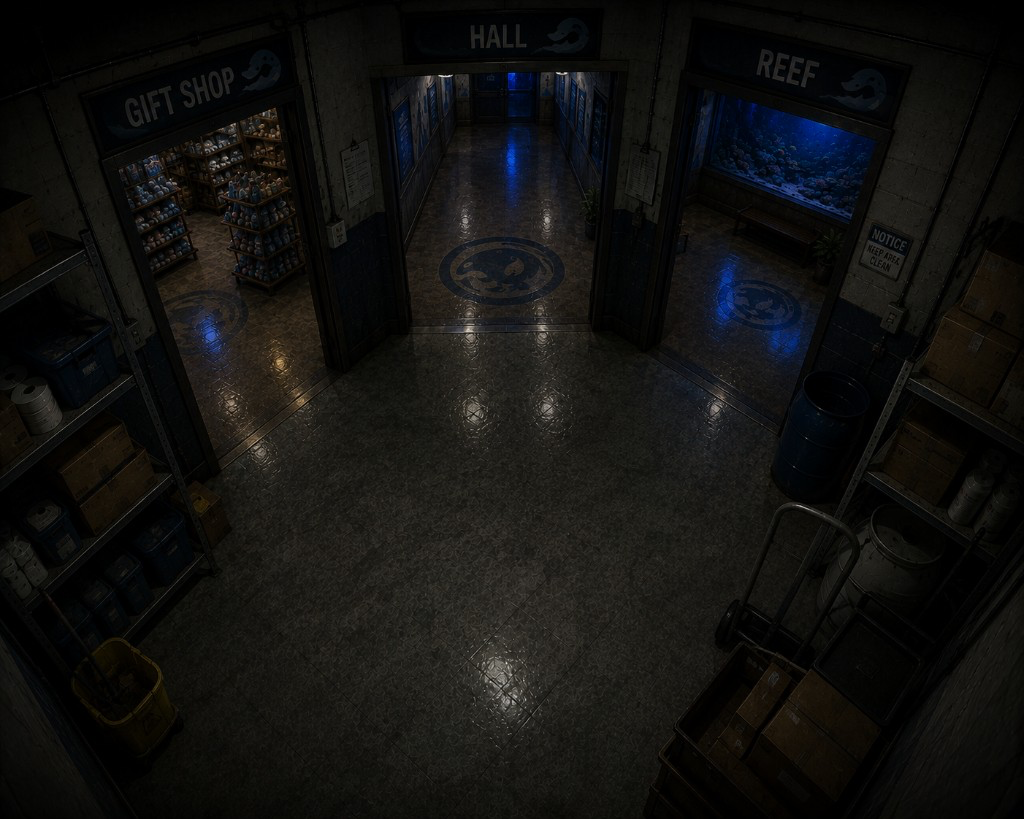
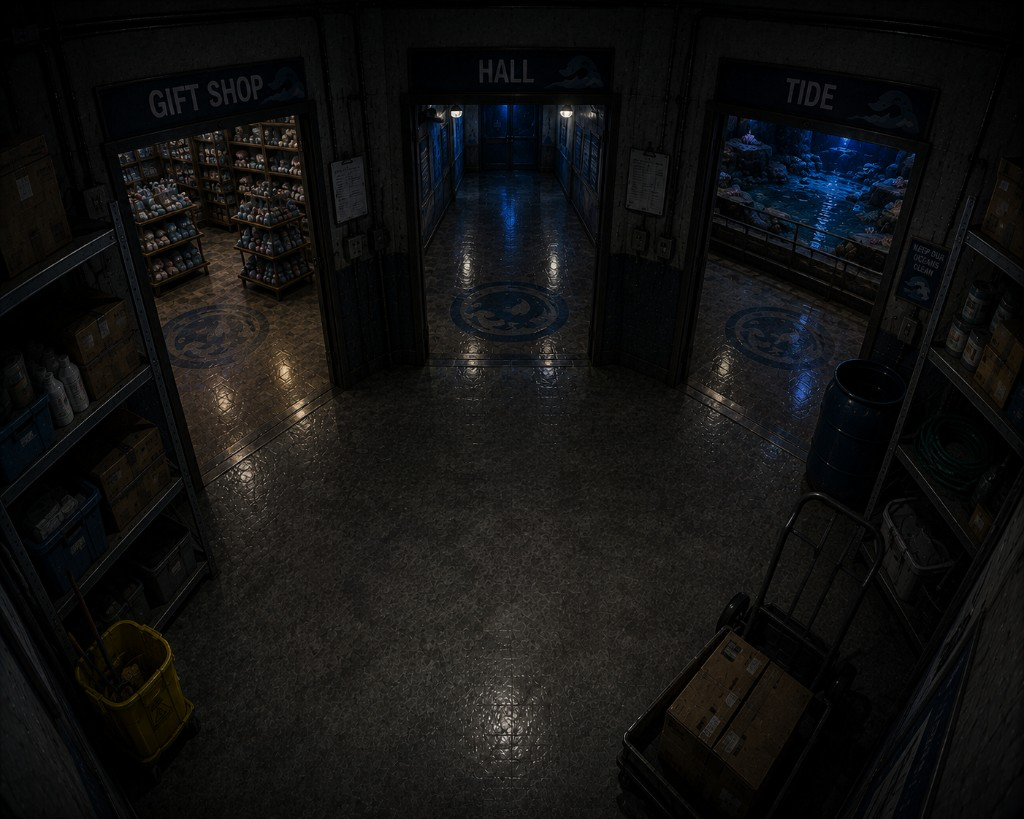
Update Storage camera art with the new hub room image.
Refresh asset cache so the browser loads the replacement picture.

diff --git a/game.js b/game.js
@@ -147,7 +147,7 @@ function loadImage(src) {
     img.onload = () => resolve(img);
     img.onerror = reject;
     // cache-bust so new room art shows after refresh
-    img.src = src + (src.includes("?") ? "&" : "?") + "v=storage1";
+    img.src = src + (src.includes("?") ? "&" : "?") + "v=storage2";
   });
 }
 

diff --git a/index.html b/index.html
@@ -14,6 +14,6 @@
       <a href="newspaper-research.html">Newspaper research</a>
     </p>
   </main>
-  <script src="game.js?v=4"></script>
+  <script src="game.js?v=5"></script>
 </body>
 </html>
